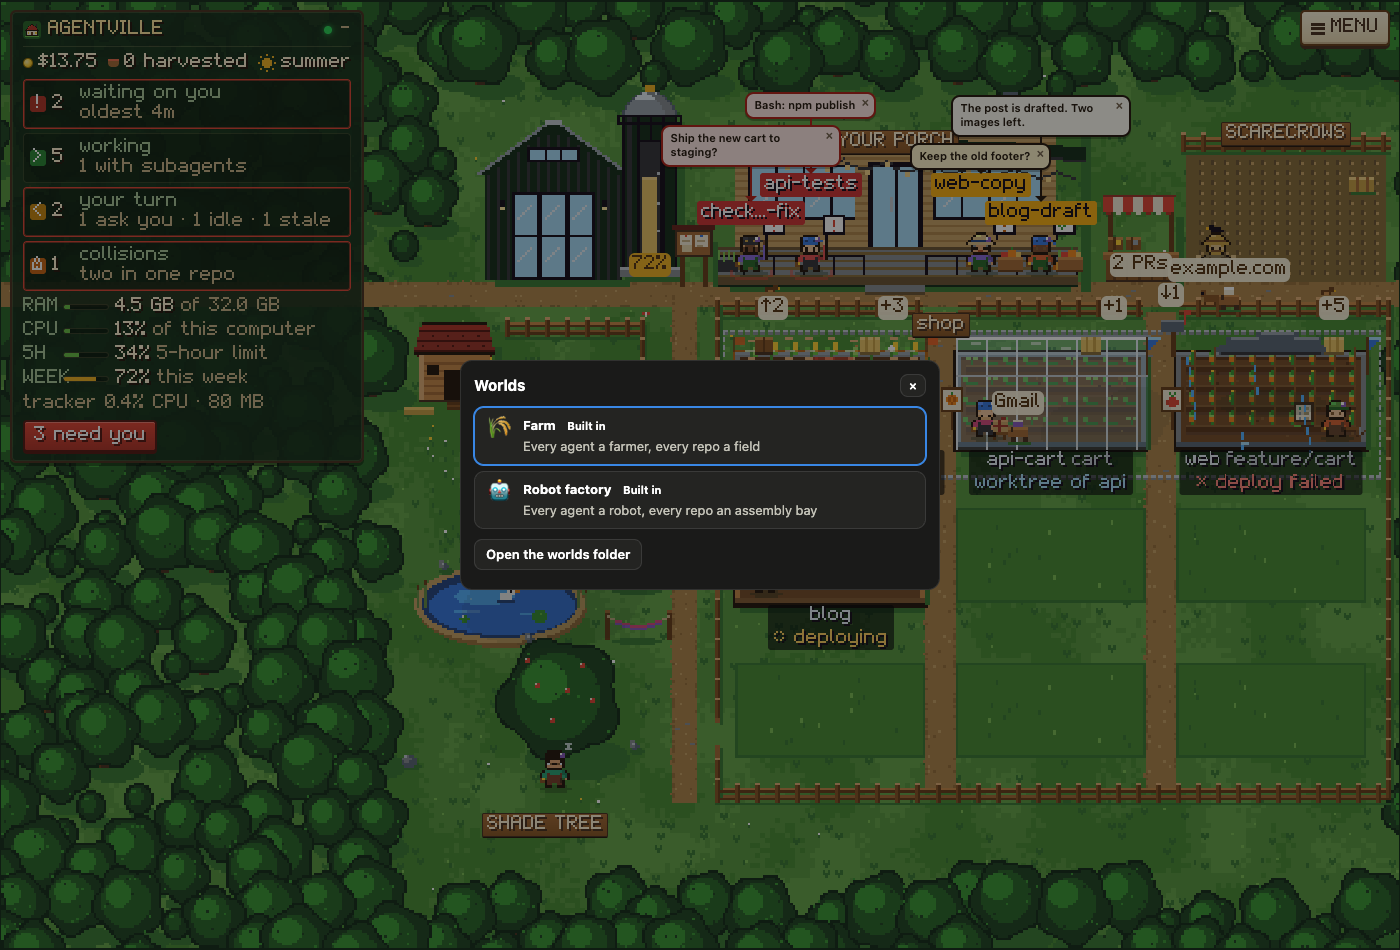
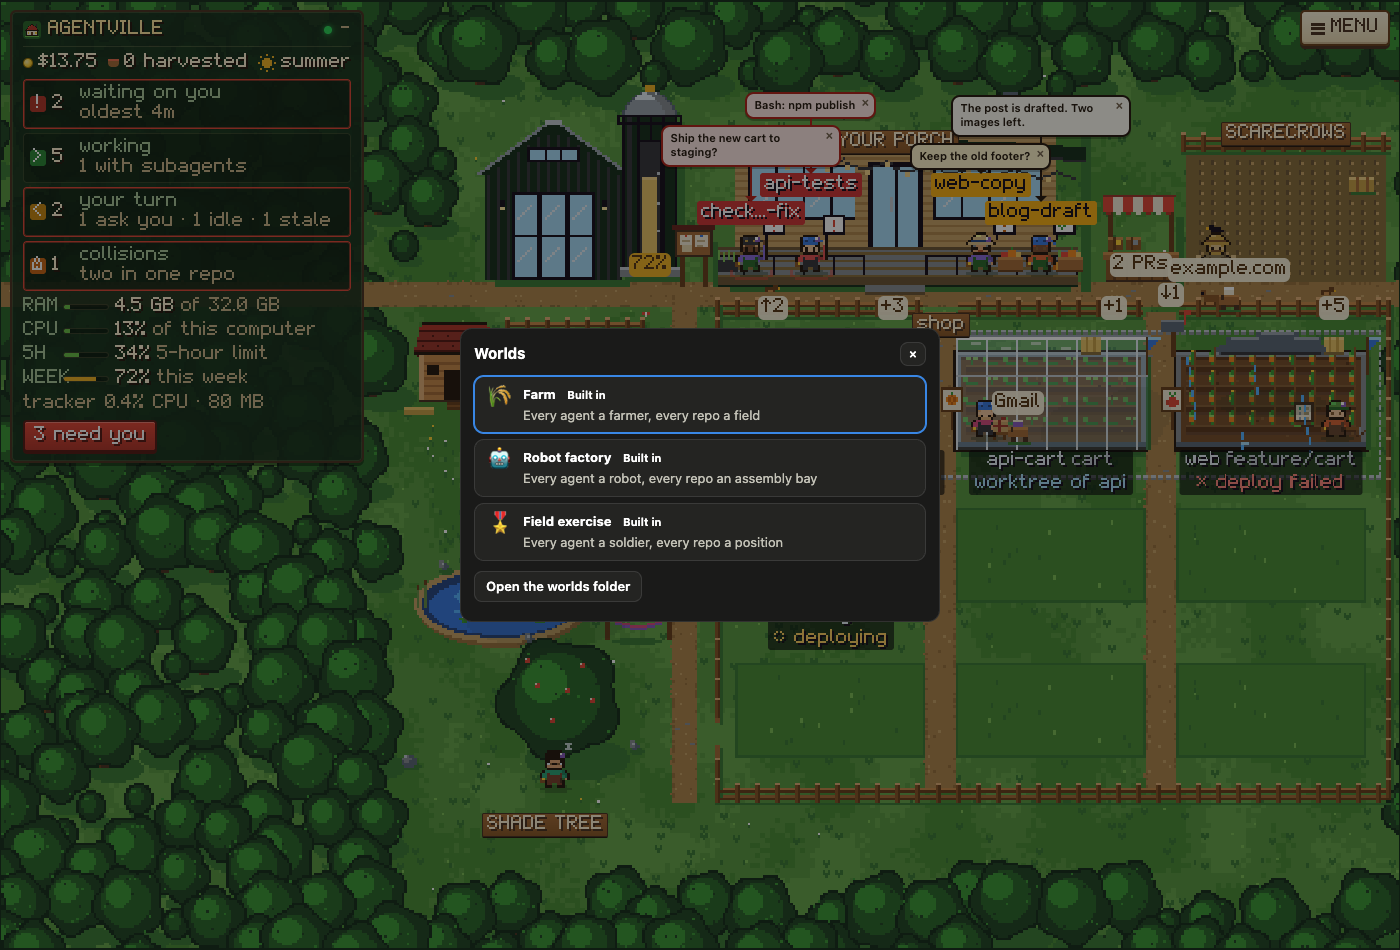
Field exercise after main's Windows work: mod 0.9.3, a worktree label from any path, pictures "of this computer"
- The mod is 0.9.3 for the field exercise's lines in its drill words: 0.9.2
  is now the Windows mod (main). MOD_VERSION, plugin.json, the version test,
  and only the field exercise's mentions in README, docs/worlds.md and the
  Helper's Animal lines text (with its pin); the Windows 0.9.2 lines stay.
- A position's "worktree of …" reads the main repo's name with lastPart()
  and cuts it in the middle at 16, as the farm's and factory's signs now do,
  so a Windows path shows its last part, not the whole path.
- Golden: military-day and military-night re-recorded, the only difference
  being the panel's CPU line ("of this computer", main's engine wording;
  x 227-315, y 321-339); worlds re-recorded on main's new reference, the only
  difference being the dialog's Field exercise row (x 460-940, y 328-622).
  All 11 same. docs/military.png and docs/worlds.png copied from those views.

npm test 1255 pass (24 Windows-only skipped), mod 68 pass, test:ui normal
and reduced motion PASS, check-world military/factory/farm/starter exit 0.

Claude-Session: https://claude.ai/code/session_01N3JE3bNYtLyBj8UyFDxfCF

Changed region(s): [[0.3071, 0.3358, 0.6757, 0.6716]]

diff --git a/web/panels.js b/web/panels.js
@@ -538,7 +538,7 @@ function helperHtml(h = {}) {
   return `<p>The helper does small writing jobs for the dashboard with Haiku, a small, fast Claude model. It is off until you switch it on, and does only what you tick.</p>
     <p><b>How it calls Haiku:</b> through the Agentville mod inside one of your open Claude Code sessions, with your sign-in, on your Claude plan. No API key, nothing added to any conversation, no new session. With no session open, nothing is called.</p>
     <label class="helper-use"><input type="checkbox" id="helper-names"${h.uses?.names ? ' checked' : ''}><span><b>Name suggestions.</b> When a new session has replied once, it suggests a short name for it (Name it login-bug? ✓ Rename · ✎ Edit · ✕), and ✨ beside a session's name asks any time. That session reads its own first three messages and the start of Claude's first reply (about 2,000 characters) and sends them to Haiku itself: the dashboard only ever sees the name.</span></label>
-    <label class="helper-use"><input type="checkbox" id="helper-lines"${h.uses?.lines ? ' checked' : ''}><span><b>Animal lines.</b> Now and then it writes what the animals say about what is happening: when something happens (at most every 5 minutes), and every 30 minutes. It sends agent and repo names (the names the dashboard shows, which Claude Code may take from a conversation's title), each agent's state and current step, what just happened (a deploy, a harvest, a merge, someone new), and the built-in world's name (the farm, the robot factory or the field exercise, so the lines are in its words); never code, file paths or conversation text. A world that can't see what agents say shows only lines without names. It needs a session with tracker mod 0.9.0 (0.9.1 for the robot dog and the robot vacuum; 0.9.2 for the field exercise's lines in its drill words, which an older mod writes in plain words).</span></label>
+    <label class="helper-use"><input type="checkbox" id="helper-lines"${h.uses?.lines ? ' checked' : ''}><span><b>Animal lines.</b> Now and then it writes what the animals say about what is happening: when something happens (at most every 5 minutes), and every 30 minutes. It sends agent and repo names (the names the dashboard shows, which Claude Code may take from a conversation's title), each agent's state and current step, what just happened (a deploy, a harvest, a merge, someone new), and the built-in world's name (the farm, the robot factory or the field exercise, so the lines are in its words); never code, file paths or conversation text. A world that can't see what agents say shows only lines without names. It needs a session with tracker mod 0.9.0 (0.9.1 for the robot dog and the robot vacuum; 0.9.3 for the field exercise's lines in its drill words, which an older mod writes in plain words).</span></label>
     <p class="helper-limit">At most <input type="number" id="helper-limit" min="1" max="2000" value="${esc(String(limit))}"> calls a day.${on ? ` Today: ${esc(String(h.today ?? 0))} of ${esc(String(limit))} calls.` : ''}</p>
     ${on && (h.today ?? 0) >= limit ? `<p class="msg-bad">Today's limit is reached: nothing more is called until midnight.</p>` : ''}
     ${h.lastError ? `<p class="msg-bad">Last error: ${esc(h.lastError)}</p>` : ''}

diff --git a/web/worlds/military/world.js b/web/worlds/military/world.js
@@ -1734,7 +1734,7 @@
           if (!f) continue;
           const branch = f.branch === '(detached)' ? ` ${pxt('?', '#c3cbd2')}` : f.flag ? ` ${pxt(clip(f.branch, 12), '#a9dcf7')}` : '';
           const d = f.lastDeploy, deploy = d?.label ? pxt(d.label, { ok: '#8ef0a0', failed: '#ff8a80', running: '#ffd166' }[d.state] ?? '#c9b48a') : '';
-          const second = [f.worktree && f.main ? pxt(`worktree of ${f.main.split('/').pop()}`, '#a9dcf7') : '', deploy, f.collision ? pxt('⚠ crowded', '#ffd166') : ''].filter(Boolean).join(' ');
+          const second = [f.worktree && f.main ? pxt(`worktree of ${cutMid(lastPart(f.main), 16)}`, '#a9dcf7') : '', deploy, f.collision ? pxt('⚠ crowded', '#ffd166') : ''].filter(Boolean).join(' ');
           const tip = [f.key, f.branch && `on ${f.branch}`, d && [d.label, d.detail].filter(Boolean).join(': '), 'Click to see the files soldiers touched here'].filter(Boolean).join(' · ');
           lab(s.cx, s.rowTop + 49, `<button type="button" class="px-field" data-farm-field="${esc(f.key)}" title="${esc(tip)}"><span class="px-fl">${f.flag ? pennantImg() : ''}${pxt(cutMid(f.name, 16), f.collision ? '#ffd166' : '#e6eef5')}${branch}</span>${second ? `<span class="px-fl">${second}</span>` : ''}</button>`, f.collision ? 'bad' : '');
           // the counts along the position's back edge: behind over its post, uncommitted on the loose sandbags' side, unpushed on the crates'

diff --git a/mod/hooks/register.tsx b/mod/hooks/register.tsx
@@ -26,7 +26,7 @@ const DASHBOARD_REASON = 'Answered from the Agentville dashboard'
 type Offer = { stateDir: string; sessionId: string; isLive: boolean; windowSec: number; now: number }
 type Waited = { kind: 'answer'; text: string } | { kind: 'withdrawn' } | { kind: 'timeout' }
 
-const MOD_VERSION = '0.9.2'
+const MOD_VERSION = '0.9.3'
 
 let latest: TrackerView = EMPTY
 // The terminal's working line (Slithering… while thinking), for the dashboard: when the turn began,

diff --git a/README.md b/README.md
@@ -504,12 +504,12 @@ tick there. The farm's Menu has no ✨ Helper yet: to change it from the farm, g
   - It needs mod 0.9.0 in a session (`/reload-plugins`). While the robot dog or the robot vacuum
     is on screen (and 10 minutes after) it needs 0.9.1: older mods aren't asked, so no lines come
     until a session has it. ✨ Helper says when no session can run it. The field exercise's lines are
-    in its drill words with 0.9.2; an older mod is still asked, and writes them in plain words.
+    in its drill words with 0.9.3; an older mod is still asked, and writes them in plain words.
 - **A daily limit** (200 to start, 1 to 2,000) caps the calls. The dialog shows today's count and
   the last error, and says when today's limit is reached (it resets at midnight). **Switch off**
   asks for nothing more at once; a call already under way finishes, and its answer is dropped.
 - Names need mod 0.8.0 in the session, animal lines 0.9.0 (0.9.1 for the robot dog and the robot
-  vacuum; 0.9.2 for the field exercise's lines in its drill words: an older mod writes them in plain
+  vacuum; 0.9.3 for the field exercise's lines in its drill words: an older mod writes them in plain
   words). For a session started before you updated, run `/reload-plugins` in it.
 
 ### Model, effort and permission mode
@@ -1225,7 +1225,7 @@ and none is a dog or a pigeon (here those are data: the K9 and the carrier pigeo
   an idle soldier comes over, or the mess cat runs at a mouse by the quartermaster's crates and comes
   back with nothing. The goat hops at a merge and when a new soldier arrives; a failed deploy's puff
   startles the cat. At max alert they don't act cold: no scarves.
-- With ✨ Helper's **Animal lines** ticked, they say lines Haiku wrote, in drill words with mod 0.9.2
+- With ✨ Helper's **Animal lines** ticked, they say lines Haiku wrote, in drill words with mod 0.9.3
   (an older mod writes them in plain words: "✨ Helper and suggested names").
 - The **Animals** switch hides them; it is remembered.
 
@@ -1544,7 +1544,7 @@ and can do is in [docs/worlds.md](docs/worlds.md).
 | My world looks wrong in one situation | Open the test page at that stop: `http://localhost:7777/worlds/test?world=u/<folder>&stop=…` (the stops are listed in [docs/worlds.md](docs/worlds.md#the-test-page-and-the-tour)). It has no live reload: reload the page after saving. Or take a picture of that stop: `npm run world-shots -- <folder> --stop …` |
 | A red strip over a world | The world reported an error after it started. It keeps drawing; **×** hides the strip. The page's console has the same message |
 | The farm stays empty, or says "not found" | The farm loads in a frame of its own from the collector (`/world/farm/`). After an update, restart the service (`agent-tracker restart`) and reload the page. The page's console says what a world reported, if anything |
-| The animals never say anything new | Tick **Animal lines** in ✨ Helper (the helper on). A session with mod 0.9.0 must be open (0.9.1 for the robot dog and the robot vacuum; `/reload-plugins` in it), and a world with animals on screen. ✨ Helper shows the last error and today's count. The field exercise's mascots talking in plain words, not drill words: their session's mod is older than 0.9.2 (`/reload-plugins` in it) |
+| The animals never say anything new | Tick **Animal lines** in ✨ Helper (the helper on). A session with mod 0.9.0 must be open (0.9.1 for the robot dog and the robot vacuum; `/reload-plugins` in it), and a world with animals on screen. ✨ Helper shows the last error and today's count. The field exercise's mascots talking in plain words, not drill words: their session's mod is older than 0.9.3 (`/reload-plugins` in it) |
 | **✨** says no name came, or the ✨ Helper shows a last error | No session is listening with mod 0.8.0 (`/reload-plugins` in it), today's limit is reached (it resets at midnight), or your organisation doesn't allow Haiku (the error says so) |
 
 ## Known limits

diff --git a/docs/worlds.md b/docs/worlds.md
@@ -990,7 +990,7 @@ With ✨ Helper's **Animal lines** ticked (off by default), Haiku writes fresh l
 screen, from the dashboard's facts (names, states, what just happened) and, for the farm, the factory
 or the field exercise, which world it is, and the page sends them to the world as `chatter`
 ("Messages"). While a `robodog` or a `vacuum` is on screen, only a session with mod 0.9.1 is asked.
-The field exercise's lines are in its drill words from mod 0.9.2; an older mod still writes them, in
+The field exercise's lines are in its drill words from mod 0.9.3; an older mod still writes them, in
 plain words. The kit says them first, each once:
 
 - for `idle` (now and then) and for the five reactions (`deployFailed`, `deployOk`, `harvest`,
